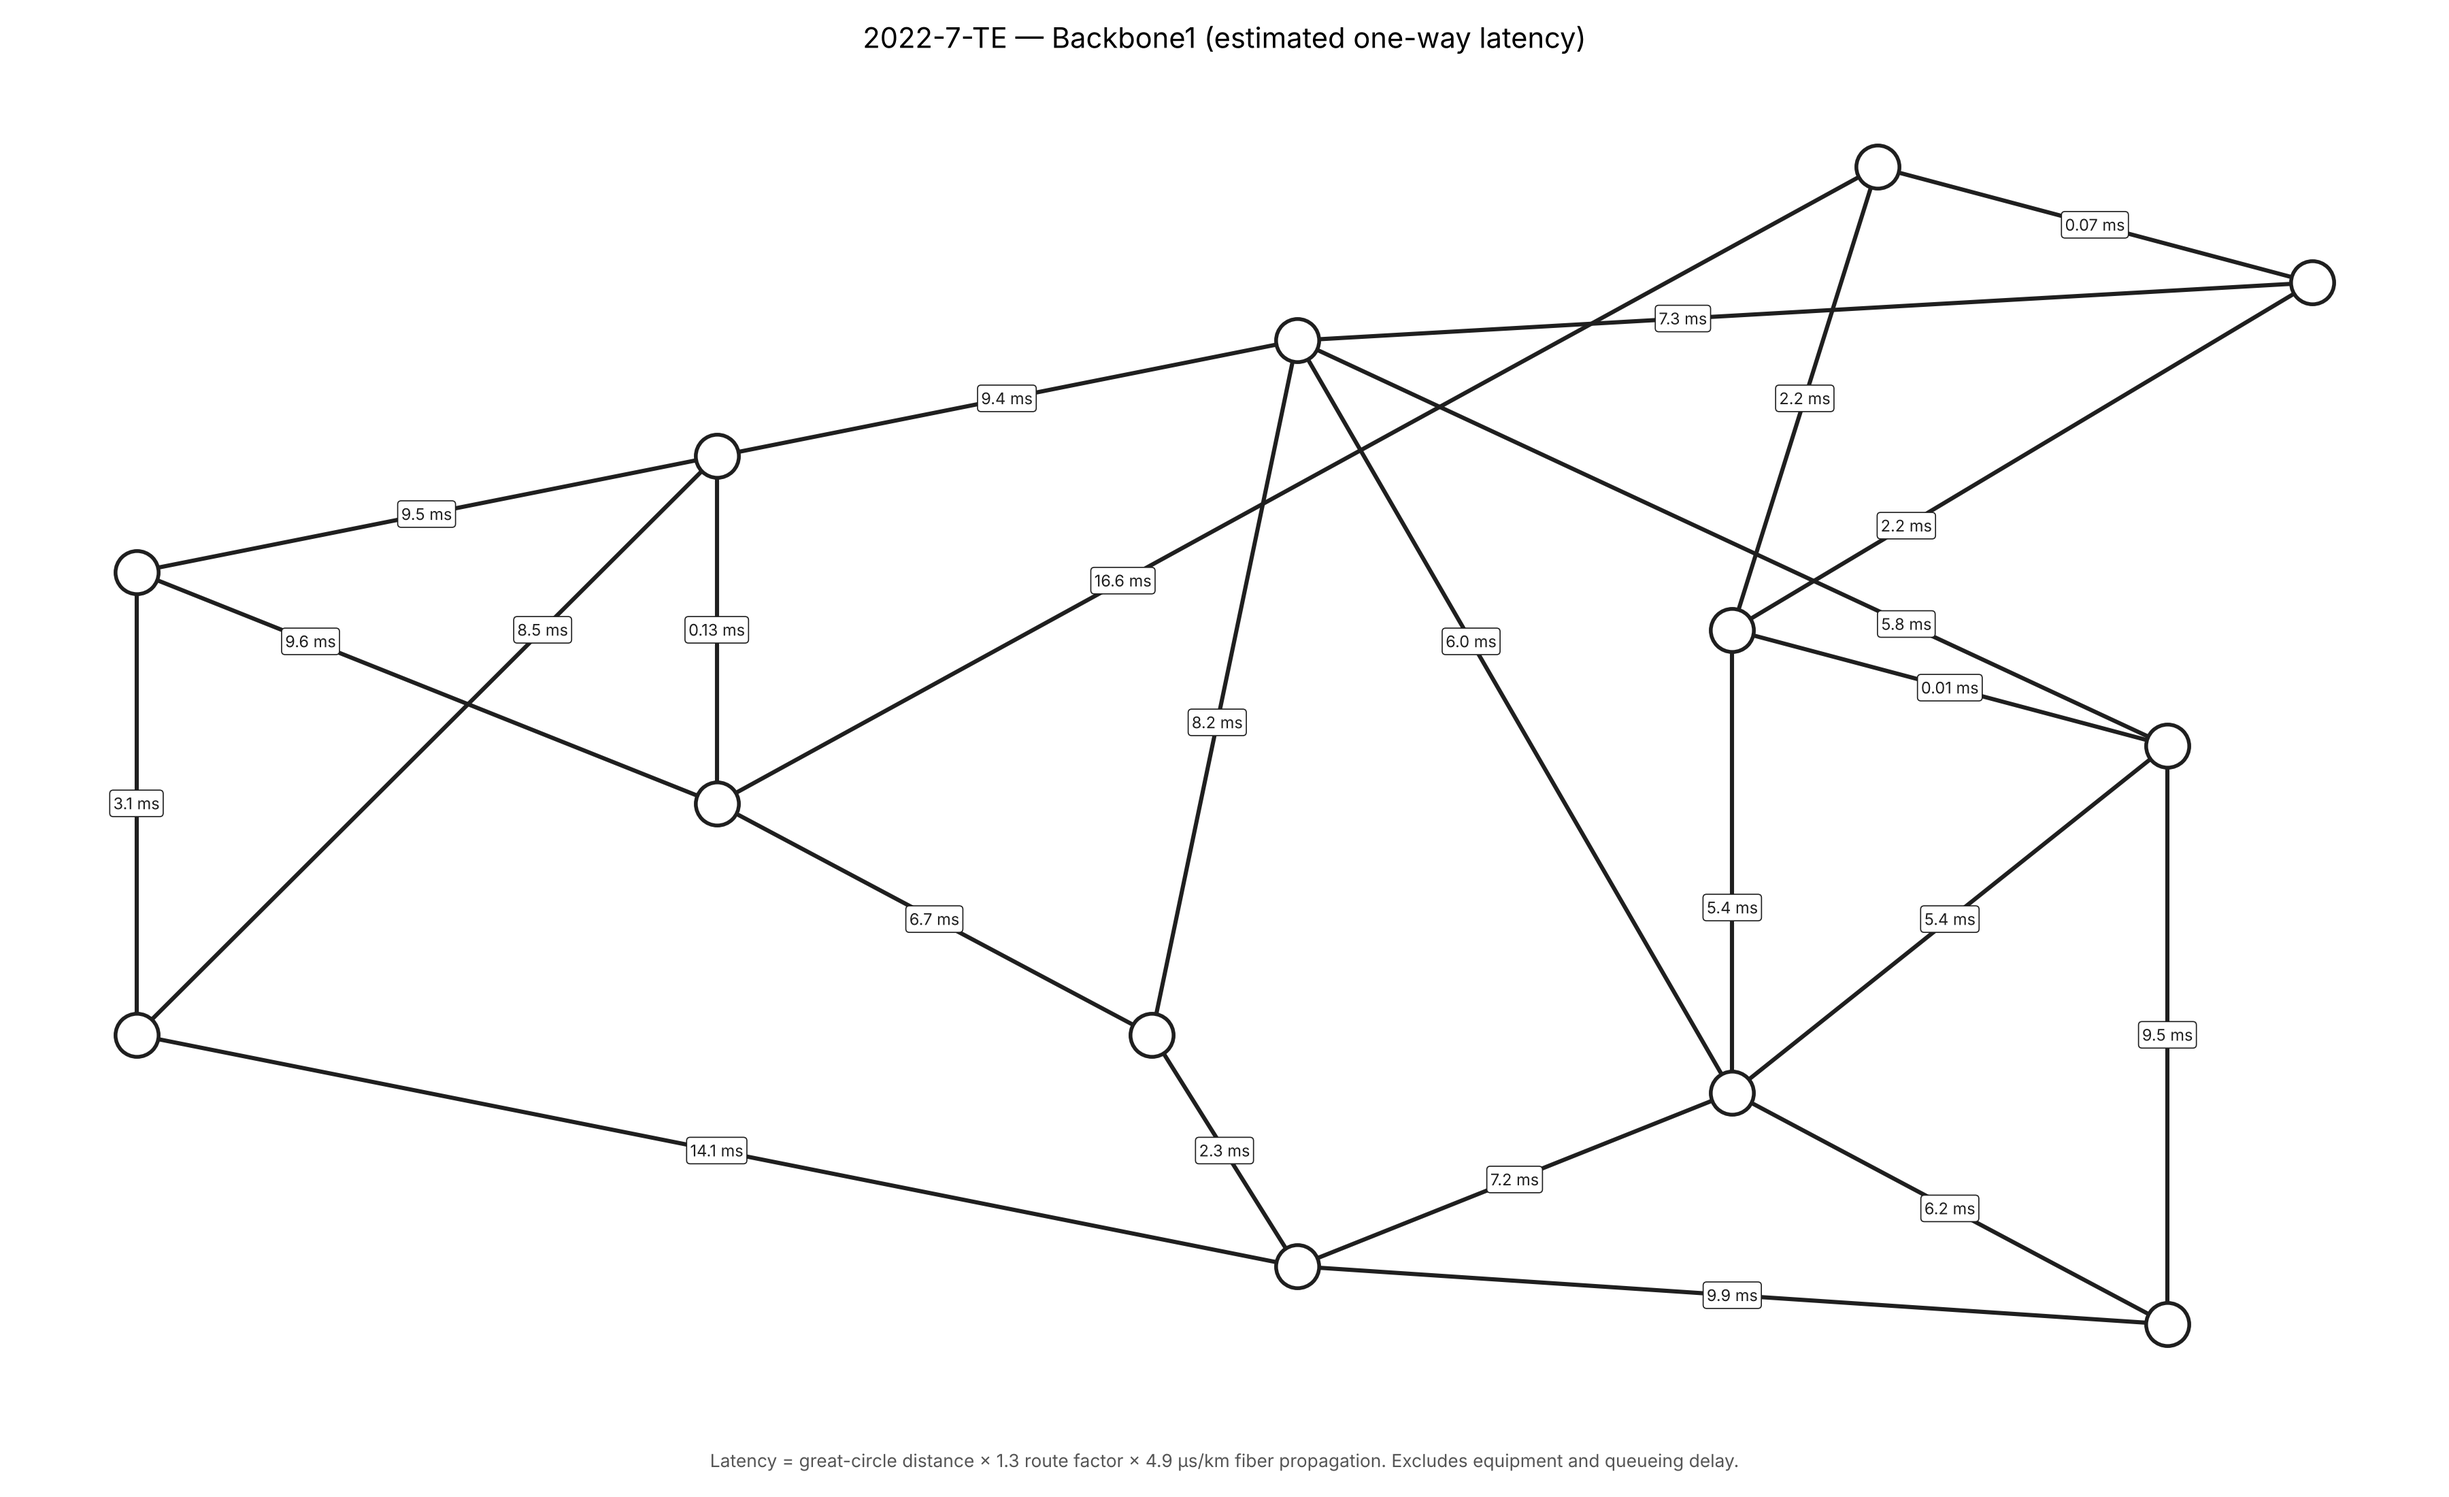
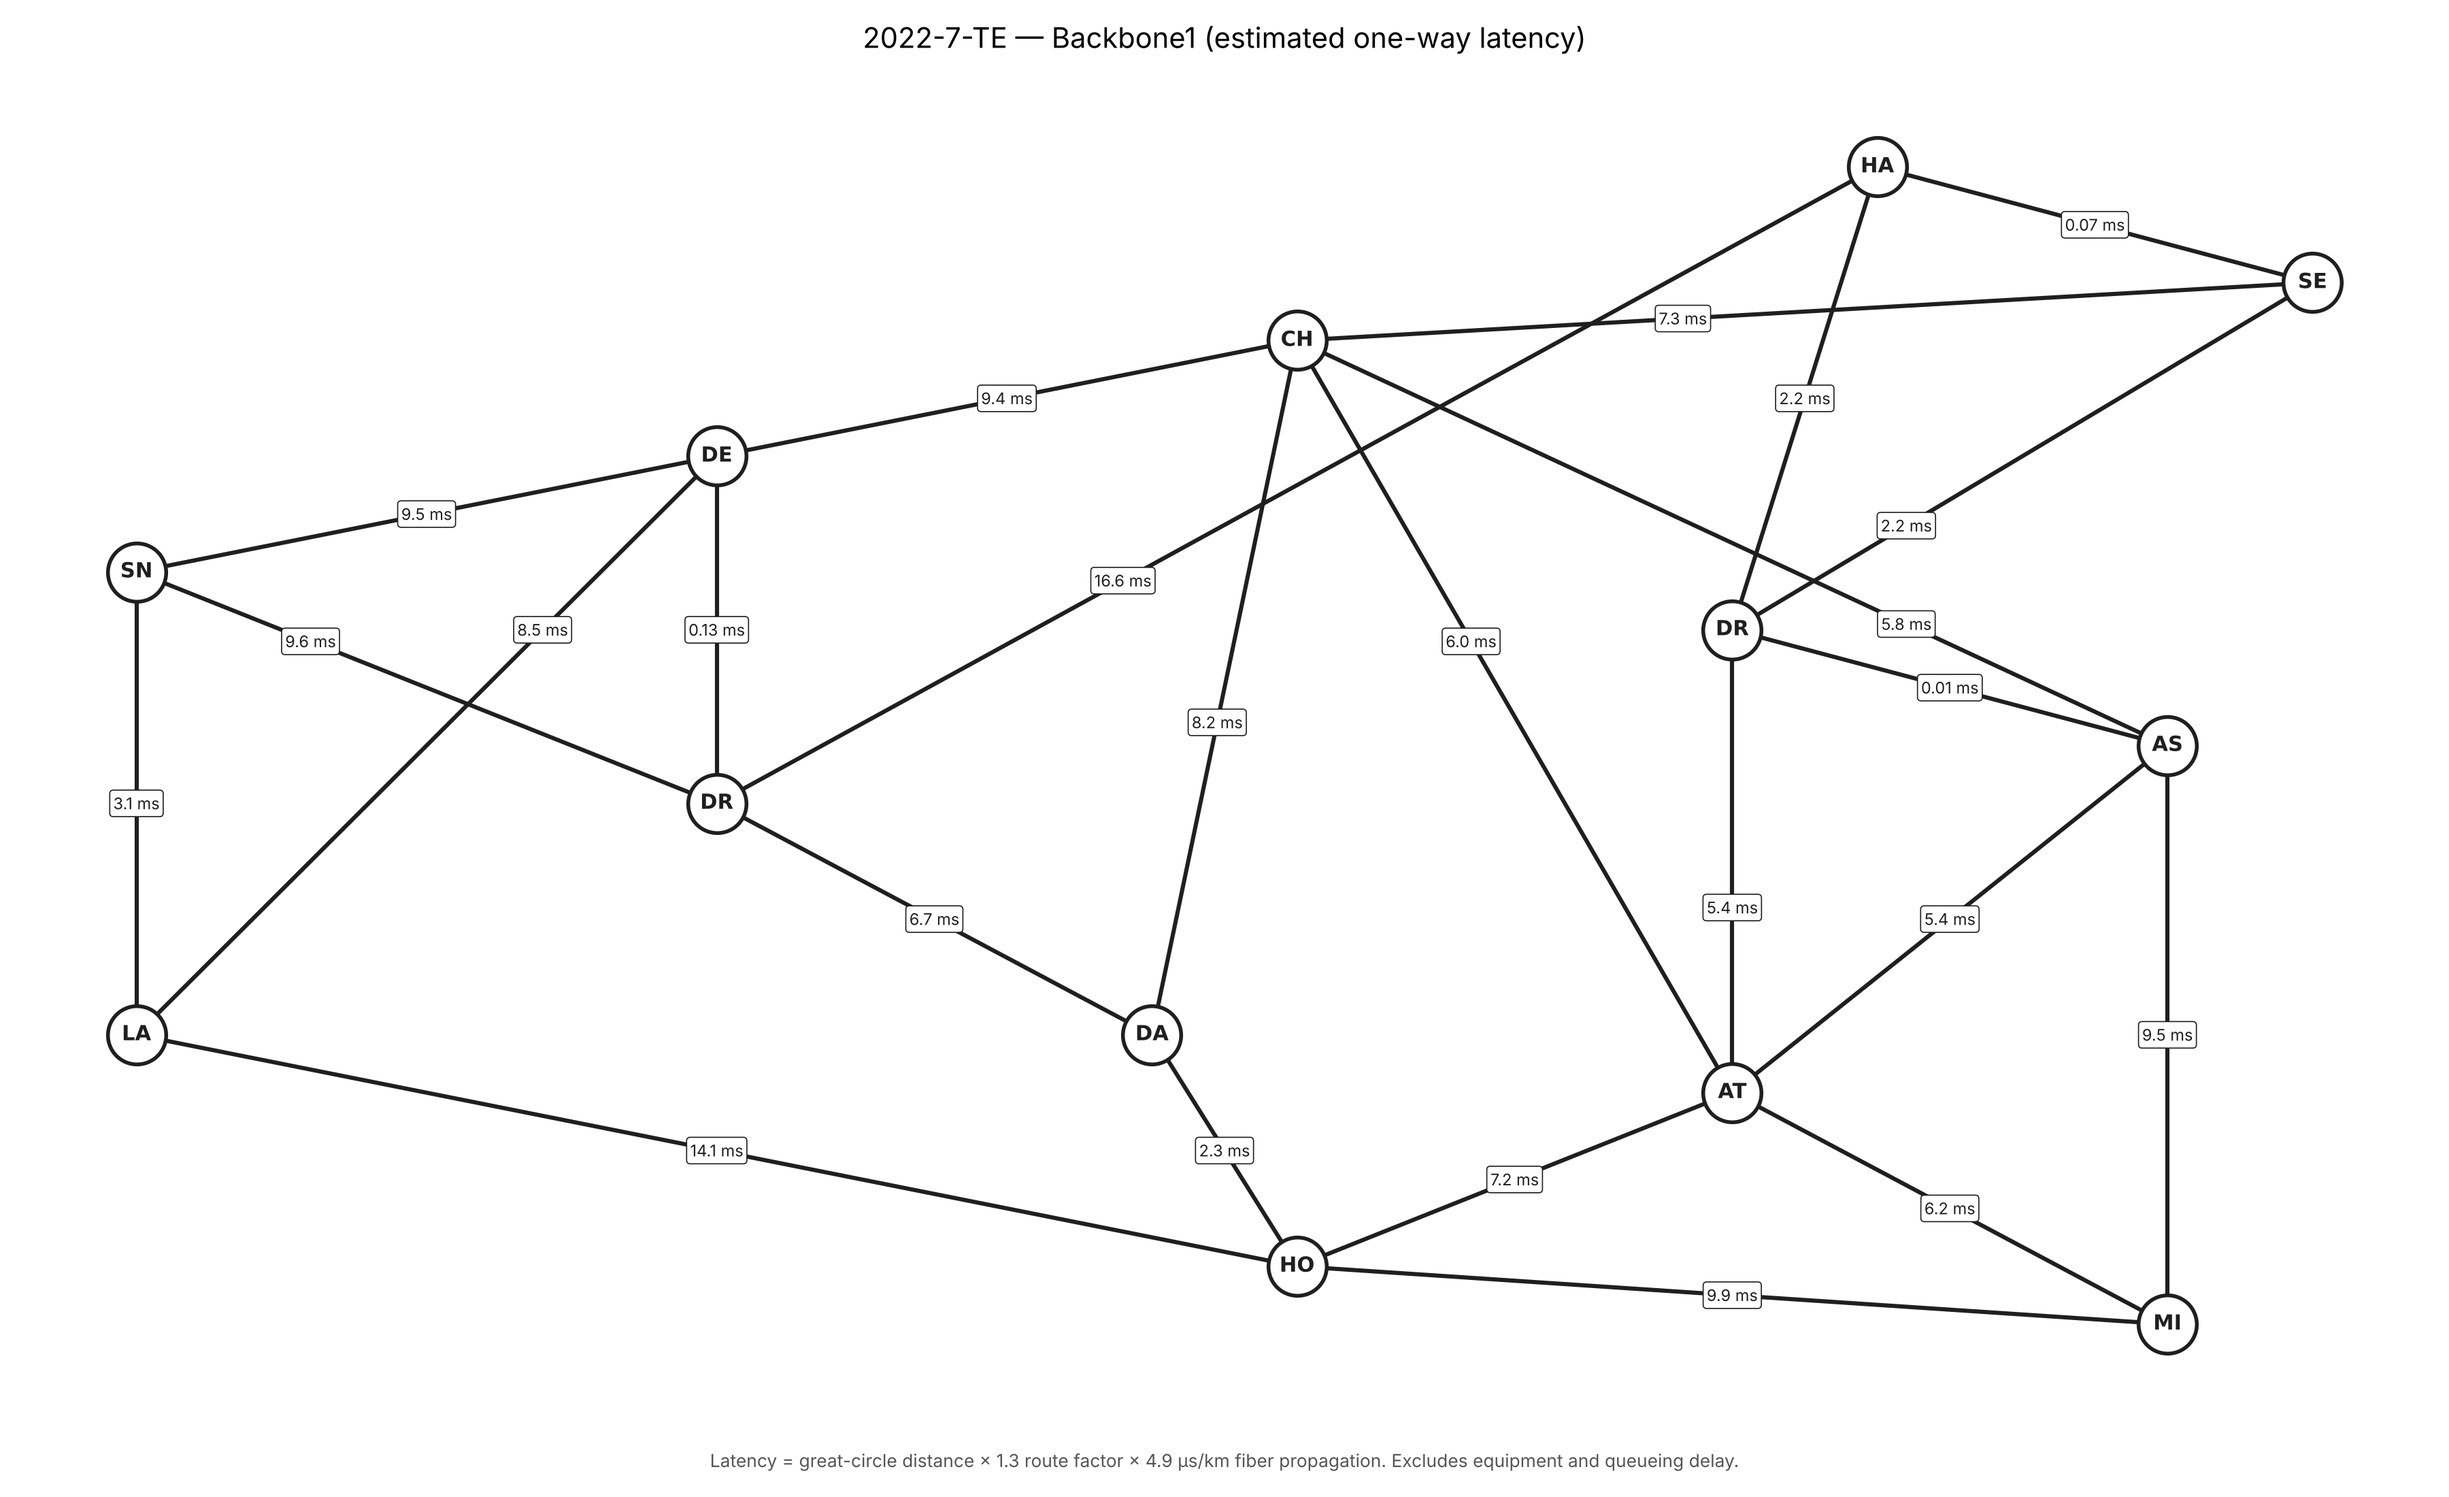
2022-7-TE: label nodes with first 2 letters of the POP code
Claude-Session: https://claude.ai/code/session_011mjtxqb8uLpQefYmGLCZEs

diff --git a/2022-7-TE/backbone5_model.py b/2022-7-TE/backbone5_model.py
@@ -16,7 +16,8 @@ site locations listed on the "Backbone1" sheet:
   - Propagation only: excludes equipment, queueing and serialization delay
 
 Styling
-  - Backbone1 nodes : white, dark outline, no labels
+  - Backbone1 nodes : white, dark outline, labelled with the first 2 letters
+                      of the POP code
   - Clouds (if any) : cloud shape, labelled
   - All links       : straight lines, drawn beneath the nodes
   - All links       : labelled with estimated latency (ms)
@@ -211,6 +212,11 @@ LABEL_POS = {
 }
 
 
+def node_label(n):
+    """Node label: first 2 letters of the POP code."""
+    return n[:2]
+
+
 def fmt_ms(ms):
     return f"{ms:.2f} ms" if ms < 1 else f"{ms:.1f} ms"
 
@@ -228,9 +234,11 @@ def draw(G, pos, out):
     nx.draw_networkx_edges(G, pos, edgelist=list(G.edges()), ax=ax,
                            edge_color="#1f1f1f", width=2.2, arrows=False)
 
-    nx.draw_networkx_nodes(G, pos, nodelist=bb, ax=ax, node_size=520,
+    nx.draw_networkx_nodes(G, pos, nodelist=bb, ax=ax, node_size=950,
                            node_color="white", edgecolors="#1f1f1f",
                            linewidths=2.0)
+    nx.draw_networkx_labels(G, pos, labels={n: node_label(n) for n in bb}, ax=ax,
+                            font_size=11, font_weight="bold", font_color="#1f1f1f")
 
     # Clouds: rounded box with the cloud name
     for n in clouds:
@@ -242,7 +250,7 @@ def draw(G, pos, out):
         ax.text(x, y, n, ha="center", va="center", fontsize=12,
                 fontweight="bold", color="#1f1f1f", zorder=5)
 
-    # Latency labels on every link (no backbone node labels)
+    # Latency labels on every link
     for u, v in G.edges():
         ms = G.edges[u, v].get("latency_ms")
         if ms is None:
@@ -298,6 +306,14 @@ def main():
     rows = sorted(G.edges(data=True), key=lambda e: -e[2].get("latency_ms", 0))
     for u, v, d in rows:
         print(f"  {u:>8} - {v:<8} {d['km']:7.0f} km  {d['latency_ms']:6.2f} ms")
+
+    seen = {}
+    for n in bb:
+        seen.setdefault(node_label(n), []).append(n)
+    print("Node labels:", ", ".join(f"{n}={node_label(n)}" for n in sorted(bb)))
+    clash = {k: v for k, v in seen.items() if len(v) > 1}
+    if clash:
+        print("Duplicate labels:", "; ".join(f"{k} = {', '.join(v)}" for k, v in clash.items()))
 
     pos = layout(G)
     bad = check_visibility(G, pos)

diff --git a/2022-7-TE/README.md b/2022-7-TE/README.md
@@ -10,7 +10,7 @@ Backbone2 are not included.
 
 | Element | Style |
 |---|---|
-| Backbone1 sites (13) | White nodes, dark outline, unlabelled |
+| Backbone1 sites (13) | White nodes, dark outline, labelled with the first 2 letters of the POP code |
 | Backbone1 links (24) | Straight lines, labelled with estimated one-way latency |
 
 Every run checks that each line clears every node it doesn't terminate on
@@ -29,6 +29,7 @@ excluded.
 
 - `BACKBONE_POS`: schematic positions of the Backbone1 sites
 - `CLOUDS`: optional cloud on-ramps (homing sites, position, coordinates); none are defined
+- `node_label()`: node label rule (first 2 letters of the POP code); note DRY and DRT both show as DR
 - `LABEL_POS`: per-link latency label positions
 - `ROUTE_FACTOR`, `FIBER_US_PER_KM`: latency model
 
